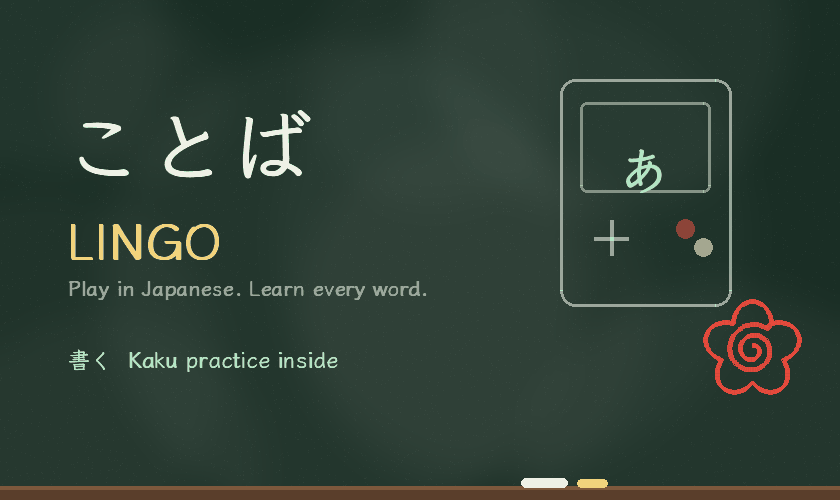
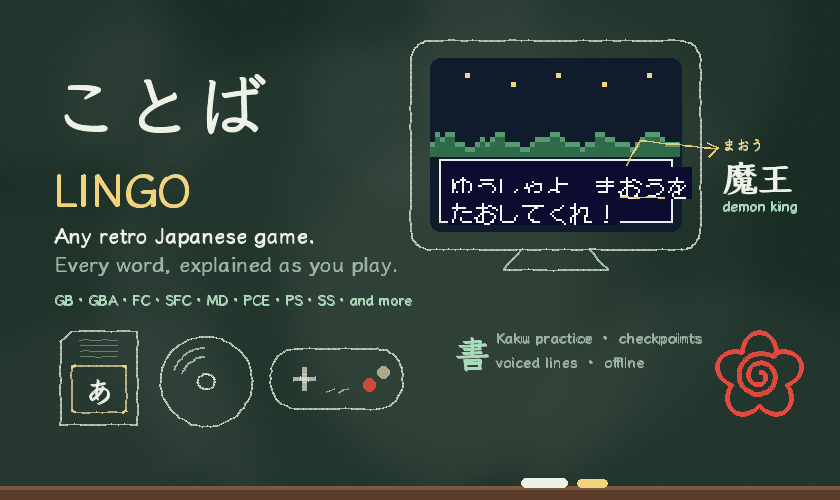
New LiveArea and home screen art: any retro Japanese game
Chalk doodles of generic hardware (cartridge, disc, controller) and a CRT
showing a pixel text box with a word underlined and explained.

Claude-Session: https://claude.ai/code/session_011eNiVjDizRgm5M3fzrotik

diff --git a/tools/make_art.py b/tools/make_art.py
@@ -1,6 +1,10 @@
 #!/usr/bin/env python3
-"""Draws Lingo's LiveArea art in the chalkboard style. The Vita wants these as
-8-bit palette PNGs. Usage: make_art.py path/to/KleeOne-SemiBold.ttf outdir"""
+"""Draws Lingo's LiveArea art in the chalkboard style: generic chalk doodles of
+retro game hardware (no real console's design) around a CRT showing a pixel
+text box, its words underlined and explained the way the study panel does.
+The Vita wants these as 8-bit palette PNGs.
+
+Usage: make_art.py KleeOne-SemiBold.ttf DotGothic16-Regular.ttf outdir"""
 import math
 import random
 import sys
@@ -13,6 +17,8 @@ CHALK = (0xee, 0xf1, 0xe6)
 YELLOW = (0xf1, 0xd3, 0x7c)
 GREEN = (0xa6, 0xe3, 0xbd)
 PINK = (0xf4, 0xa6, 0xc0)
+BLUE = (0x9c, 0xc8, 0xf0)
+KLEE = DOT = None
 RED = (0xe8, 0x4a, 0x3c)
 WOOD = (0x5a, 0x3e, 0x2b)
 WOOD2 = (0x7d, 0x58, 0x3c)
@@ -60,15 +66,133 @@ def hanamaru(img, cx, cy, R, width):
     d.line(pts, fill=RED + (230,), width=width, joint="curve")
 
 
-def gameboy(img, x, y, s):
+def chalk_line(d, pts, fill, width):
+    """A slightly wobbly chalk stroke through pts."""
+    out = []
+    for (x0, y0), (x1, y1) in zip(pts, pts[1:]):
+        n = max(2, int(math.hypot(x1 - x0, y1 - y0) / 6))
+        for i in range(n):
+            t = i / n
+            out.append((x0 + (x1 - x0) * t + random.uniform(-0.6, 0.6), y0 + (y1 - y0) * t + random.uniform(-0.6, 0.6)))
+    out.append(pts[-1])
+    d.line(out, fill=fill, width=width, joint="curve")
+
+
+def chalk_box(d, x0, y0, x1, y1, r, fill, width):
+    """A rounded rectangle in chalk."""
+    pts = []
+    for cx, cy, a0 in ((x1 - r, y0 + r, -90), (x1 - r, y1 - r, 0), (x0 + r, y1 - r, 90), (x0 + r, y0 + r, 180)):
+        for k in range(7):
+            a = math.radians(a0 + k * 15)
+            pts.append((cx + r * math.cos(a), cy + r * math.sin(a)))
+    pts.append(pts[0])
+    chalk_line(d, pts, fill, width)
+
+
+def cartridge(img, x, y, s, label):
+    """A generic game cartridge: notched top, grip ridges, a label."""
     d = ImageDraw.Draw(img, "RGBA")
-    c = CHALK + (150,)
-    d.rounded_rectangle([x, y, x + 150 * s, y + 200 * s], radius=14 * s, outline=c, width=max(2, int(3 * s)))
-    d.rounded_rectangle([x + 18 * s, y + 20 * s, x + 132 * s, y + 100 * s], radius=6 * s, outline=CHALK + (120,), width=max(2, int(3 * s)))
-    d.line([x + 30 * s, y + 140 * s, x + 60 * s, y + 140 * s], fill=c, width=max(2, int(4 * s)))
-    d.line([x + 45 * s, y + 125 * s, x + 45 * s, y + 155 * s], fill=c, width=max(2, int(4 * s)))
-    d.ellipse([x + 102 * s, y + 124 * s, x + 118 * s, y + 140 * s], fill=RED + (180,))
-    d.ellipse([x + 118 * s, y + 140 * s, x + 134 * s, y + 156 * s], fill=YELLOW + (180,))
+    c = CHALK + (170,)
+    w = max(2, int(3 * s))
+    chalk_line(d, [(x, y + 14 * s), (x + 14 * s, y), (x + 96 * s, y), (x + 96 * s, y + 120 * s), (x, y + 120 * s),
+                   (x, y + 14 * s)], c, w)
+    for k in range(4):
+        yy = y + (12 + k * 7) * s
+        chalk_line(d, [(x + 24 * s, yy), (x + 72 * s, yy)], CHALK + (90,), max(1, int(2 * s)))
+    chalk_box(d, x + 14 * s, y + 44 * s, x + 82 * s, y + 104 * s, 4 * s, YELLOW + (190,), w)
+    font = ImageFont.truetype(KLEE, max(10, int(36 * s)))
+    chalk_text(img, (x + 48 * s, y + 75 * s), label, font, CHALK, anchor="mm", passes=2)
+
+
+def disc(img, cx, cy, r, s):
+    """A CD with a chalk shine."""
+    d = ImageDraw.Draw(img, "RGBA")
+    w = max(2, int(3 * s))
+    pts = [(cx + r * math.cos(t / 40 * 2 * math.pi), cy + r * math.sin(t / 40 * 2 * math.pi)) for t in range(41)]
+    chalk_line(d, pts, CHALK + (160,), w)
+    hole = [(cx + r * 0.18 * math.cos(t / 20 * 2 * math.pi), cy + r * 0.18 * math.sin(t / 20 * 2 * math.pi)) for t in range(21)]
+    chalk_line(d, hole, CHALK + (140,), w)
+    for k, col in ((0.55, BLUE), (0.75, PINK)):
+        arc = [(cx + r * k * math.cos(a), cy + r * k * math.sin(a)) for a in [math.radians(200 + i * 6) for i in range(12)]]
+        chalk_line(d, arc, col + (150,), w)
+
+
+def pad(img, x, y, s):
+    """A generic controller: d-pad, two buttons, start/select."""
+    d = ImageDraw.Draw(img, "RGBA")
+    w = max(2, int(3 * s))
+    chalk_box(d, x, y, x + 150 * s, y + 70 * s, 30 * s, CHALK + (160,), w)
+    cx, cy, a = x + 38 * s, y + 35 * s, 13 * s
+    chalk_line(d, [(cx - a, cy), (cx + a, cy)], CHALK + (170,), max(3, int(6 * s)))
+    chalk_line(d, [(cx, cy - a), (cx, cy + a)], CHALK + (170,), max(3, int(6 * s)))
+    for bx, by, col in ((112, 42, RED), (128, 28, YELLOW)):
+        d.ellipse([x + (bx - 7) * s, y + (by - 7) * s, x + (bx + 7) * s, y + (by + 7) * s], fill=col + (190,))
+    for k in range(2):
+        chalk_line(d, [(x + (62 + k * 16) * s, y + 50 * s), (x + (72 + k * 16) * s, y + 46 * s)], CHALK + (120,), w)
+
+
+def pixel_text(text, size, scale, fg, bg):
+    """Text as a game would draw it: an 1-bit font, scaled up with hard pixels."""
+    font = ImageFont.truetype(DOT, size)
+    w = int(font.getlength(text)) + 2
+    img = Image.new("RGB", (w, size + 4), bg)
+    d = ImageDraw.Draw(img)
+    d.fontmode = "1"
+    d.text((1, 1), text, font=font, fill=fg)
+    return img.resize((w * scale, (size + 4) * scale), Image.NEAREST)
+
+
+def crt(img, x, y, s, lines, underline, note):
+    """A chalk CRT showing a game's text box; one word underlined and explained."""
+    d = ImageDraw.Draw(img, "RGBA")
+    w = max(2, int(3 * s))
+    W, H = 330 * s, 240 * s
+    chalk_box(d, x, y, x + W, y + H, 22 * s, CHALK + (170,), w)
+    # the stand
+    chalk_line(d, [(x + W * 0.38, y + H), (x + W * 0.32, y + H + 22 * s), (x + W * 0.68, y + H + 22 * s),
+                   (x + W * 0.62, y + H)], CHALK + (150,), w)
+    # the screen: a dark game picture with a text box
+    sx0, sy0, sx1, sy1 = x + 22 * s, y + 20 * s, x + W - 22 * s, y + H - 22 * s
+    d.rounded_rectangle([sx0, sy0, sx1, sy1], radius=12 * s, fill=(0x10, 0x1c, 0x2c, 255))
+    # a little pixel landscape
+    random.seed(4)
+    tile = max(2, int(6 * s))
+    for k in range(int((sx1 - sx0) / tile)):
+        hgt = 3 + int(2 * math.sin(k * 0.6)) + random.randrange(2)
+        for j in range(hgt):
+            d.rectangle([sx0 + k * tile, sy1 - 90 * s - j * tile, sx0 + (k + 1) * tile - 1, sy1 - 90 * s - (j - 1) * tile - 1],
+                        fill=(0x2f, 0x6b, 0x4a, 255) if j < hgt - 1 else (0x4f, 0x9b, 0x6a, 255))
+    for k in range(5):
+        px, py = sx0 + (40 + k * 52) * s, sy0 + (18 + (k % 2) * 10) * s
+        d.rectangle([px, py, px + tile - 1, py + tile - 1], fill=(0xf1, 0xd3, 0x7c, 255))
+    # the text box
+    bx0, by0, bx1, by1 = sx0 + 10 * s, sy1 - 82 * s, sx1 - 10 * s, sy1 - 10 * s
+    d.rectangle([bx0, by0, bx1, by1], fill=(0x0c, 0x0c, 0x30, 255), outline=(0xee, 0xee, 0xee, 255), width=max(2, int(3 * s)))
+    scale = max(1, int(round(2 * s)))
+    ty = by0 + 9 * s
+    for i, line in enumerate(lines):
+        pic = pixel_text(line, 12, scale, (0xf4, 0xf4, 0xf4), (0x0c, 0x0c, 0x30))
+        img.paste(pic, (int(bx0 + 10 * s), int(ty)))
+        if i == underline[0]:
+            # chalk underline under the word, like the study panel
+            font = ImageFont.truetype(DOT, 12)
+            pre = font.getlength(line[:underline[1]]) * scale
+            wl = font.getlength(line[underline[1]:underline[1] + underline[2]]) * scale
+            ux = bx0 + 10 * s + pre
+            uy = ty + 15 * scale
+            chalk_line(d, [(ux, uy), (ux + wl, uy)], YELLOW + (240,), max(2, int(3 * s)))
+            anchor = (ux + wl / 2, ty - 2 * s)
+        ty += 30 * s
+    # the explanation, chalked beside the TV
+    nx, ny = x + W + 26 * s, by0 - 4 * s
+    bend = (anchor[0] + 14 * s, by0 - 22 * s)
+    chalk_line(d, [anchor, bend, (nx - 6 * s, ny - 8 * s)], YELLOW + (200,), w)
+    chalk_line(d, [(nx - 6 * s, ny - 8 * s), (nx - 18 * s, ny - 14 * s)], YELLOW + (200,), w)
+    chalk_line(d, [(nx - 6 * s, ny - 8 * s), (nx - 16 * s, ny + 2 * s)], YELLOW + (200,), w)
+    head, reading, gloss = note
+    chalk_text(img, (nx, ny - 26 * s), reading, ImageFont.truetype(KLEE, max(10, int(16 * s))), YELLOW)
+    chalk_text(img, (nx, ny - 6 * s), head, ImageFont.truetype(KLEE, max(12, int(40 * s))), CHALK)
+    chalk_text(img, (nx, ny + 44 * s), gloss, ImageFont.truetype(KLEE, max(10, int(17 * s))), GREEN)
 
 
 def tray(img):
@@ -84,16 +208,18 @@ def save(img, path, colors=128):
     img.convert("RGB").quantize(colors=colors, method=Image.Quantize.MEDIANCUT).save(path, optimize=True)
 
 
-def main(font_path, out):
+def main(font_path, dot_path, out):
+    global KLEE, DOT
+    KLEE, DOT = font_path, dot_path
     f = lambda size: ImageFont.truetype(font_path, size)
 
-    # icon 128x128
+    # icon 128x128: a cartridge whose label says 語 (word), and a hanamaru
     icon = board(128, 128, 3)
     d = ImageDraw.Draw(icon)
     d.rounded_rectangle([0, 0, 127, 127], radius=10, outline=WOOD2, width=6)
     random.seed(5)
-    chalk_text(icon, (60, 56), "語", f(74), CHALK, anchor="mm")
-    hanamaru(icon, 100, 28, 16, 3)
+    cartridge(icon, 25, 10, 0.74, "語")
+    hanamaru(icon, 106, 26, 13, 3)
     chalk_text(icon, (64, 113), "LINGO", f(17), YELLOW, anchor="mm", passes=2)
     save(icon, f"{out}/icon0.png")
 
@@ -102,26 +228,33 @@ def main(font_path, out):
         img = board(w, h, seed)
         s = w / 960
         random.seed(seed)
-        chalk_text(img, (70 * s, 90 * s), "ことば", f(int(96 * s)), CHALK)
-        chalk_text(img, (76 * s, 230 * s), "LINGO", f(int(58 * s)), YELLOW)
-        chalk_text(img, (78 * s, 310 * s), "Play in Japanese. Learn every word.", f(int(24 * s)), (0x9d, 0xb2, 0xa4))
-        chalk_text(img, (78 * s, 390 * s), "書く  Kaku practice inside", f(int(26 * s)), GREEN)
-        gameboy(img, 640 * s, 90 * s, 1.3 * s)
-        chalk_text(img, (737 * s, 192 * s), "あ", f(int(56 * s)), GREEN, anchor="mm")
-        hanamaru(img, 860 * s, 400 * s, 60 * s, max(3, int(6 * s)))
+        chalk_text(img, (56 * s, 54 * s), "ことば", f(int(84 * s)), CHALK)
+        chalk_text(img, (60 * s, 176 * s), "LINGO", f(int(52 * s)), YELLOW)
+        chalk_text(img, (62 * s, 250 * s), "Any retro Japanese game.", f(int(24 * s)), CHALK)
+        chalk_text(img, (62 * s, 282 * s), "Every word, explained as you play.", f(int(24 * s)), (0x9d, 0xb2, 0xa4))
+        chalk_text(img, (62 * s, 330 * s), "GB · GBA · FC · SFC · MD · PCE · PS · SS · and more", f(int(16 * s)), GREEN)
+        cartridge(img, 70 * s, 378 * s, 0.9 * s, "あ")
+        disc(img, 236 * s, 436 * s, 52 * s, s)
+        pad(img, 310 * s, 398 * s, 1.0 * s)
+        crt(img, 470 * s, 46 * s, 1.0 * s, ["ゆうしゃよ　まおうを", "たおしてくれ！"], (0, 6, 3),
+            ("魔王", "まおう", "demon king"))
+        chalk_text(img, (520 * s, 372 * s), "書", f(int(40 * s)), GREEN)
+        chalk_text(img, (566 * s, 372 * s), "Kaku practice  ·  checkpoints", f(int(18 * s)), (0x9d, 0xb2, 0xa4))
+        chalk_text(img, (566 * s, 400 * s), "voiced lines  ·  offline", f(int(18 * s)), (0x9d, 0xb2, 0xa4))
+        hanamaru(img, 868 * s, 430 * s, 54 * s, max(3, int(6 * s)))
         tray(img)
         save(img, f"{out}/{name}")
 
     # startup gate 280x158
     st = board(280, 158, 11)
     random.seed(11)
-    chalk_text(st, (24, 22), "ことば", f(40), CHALK)
-    chalk_text(st, (26, 82), "LINGO", f(34), YELLOW)
-    chalk_text(st, (28, 126), "mGBA + Kaku", f(16), GREEN)
-    hanamaru(st, 228, 60, 34, 4)
+    chalk_text(st, (18, 14), "ことば", f(38), CHALK)
+    chalk_text(st, (20, 70), "LINGO", f(30), YELLOW)
+    chalk_text(st, (21, 112), "any retro Japanese game", f(14), GREEN)
+    cartridge(st, 196, 22, 0.62, "あ")
     save(st, f"{out}/startup.png", 64)
     print("art written to", out)
 
 
 if __name__ == "__main__":
-    main(sys.argv[1], sys.argv[2])
+    main(sys.argv[1], sys.argv[2], sys.argv[3])
